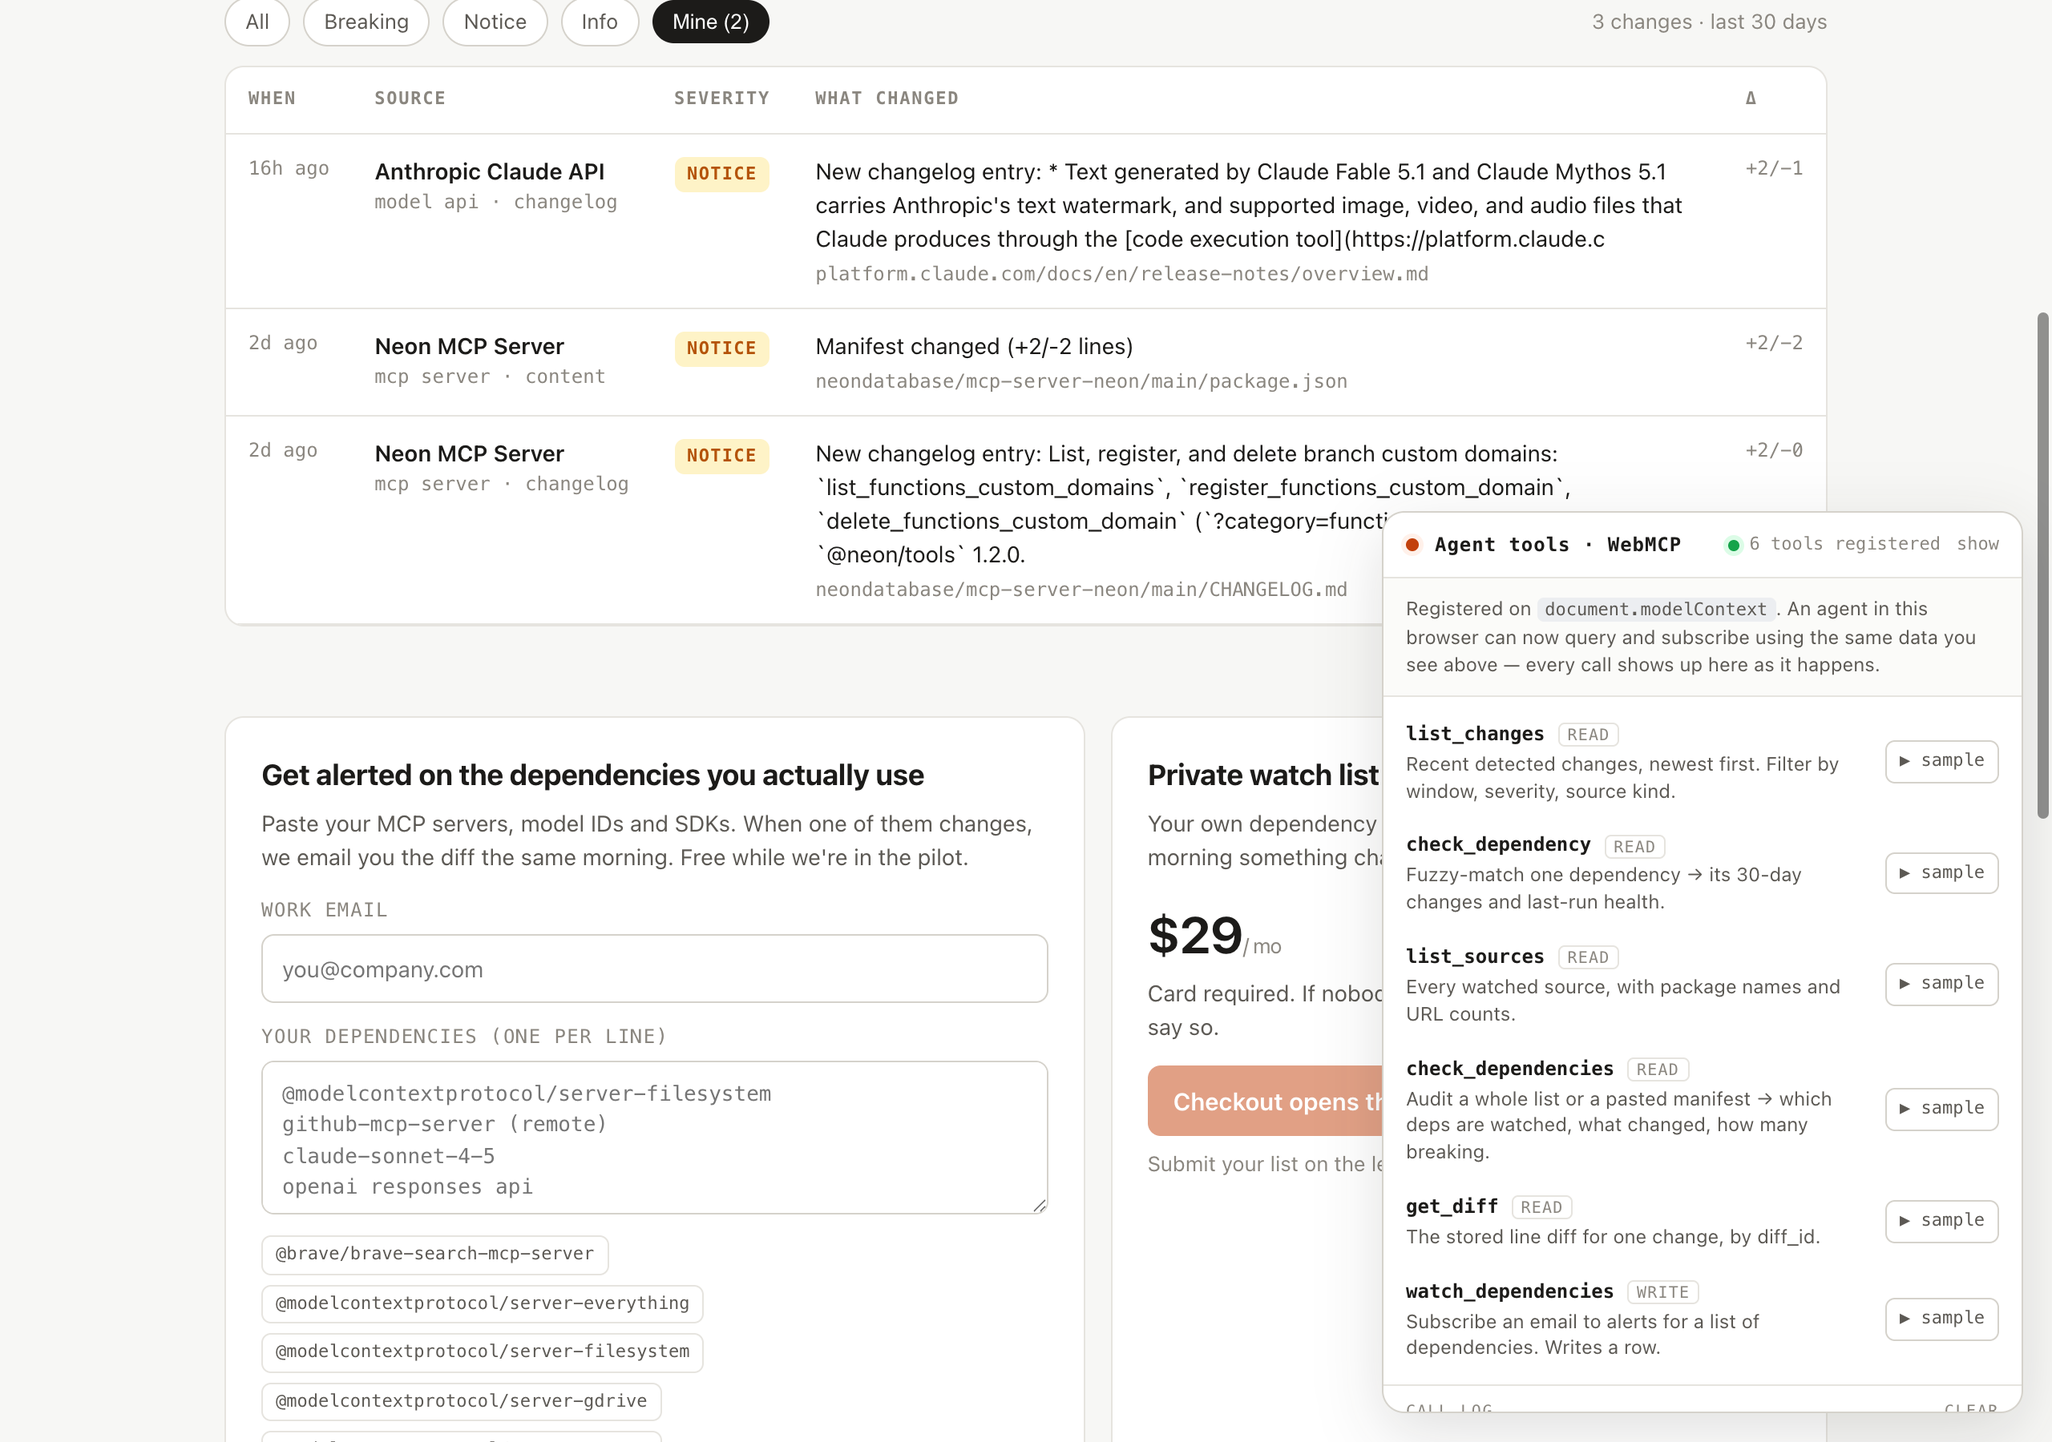
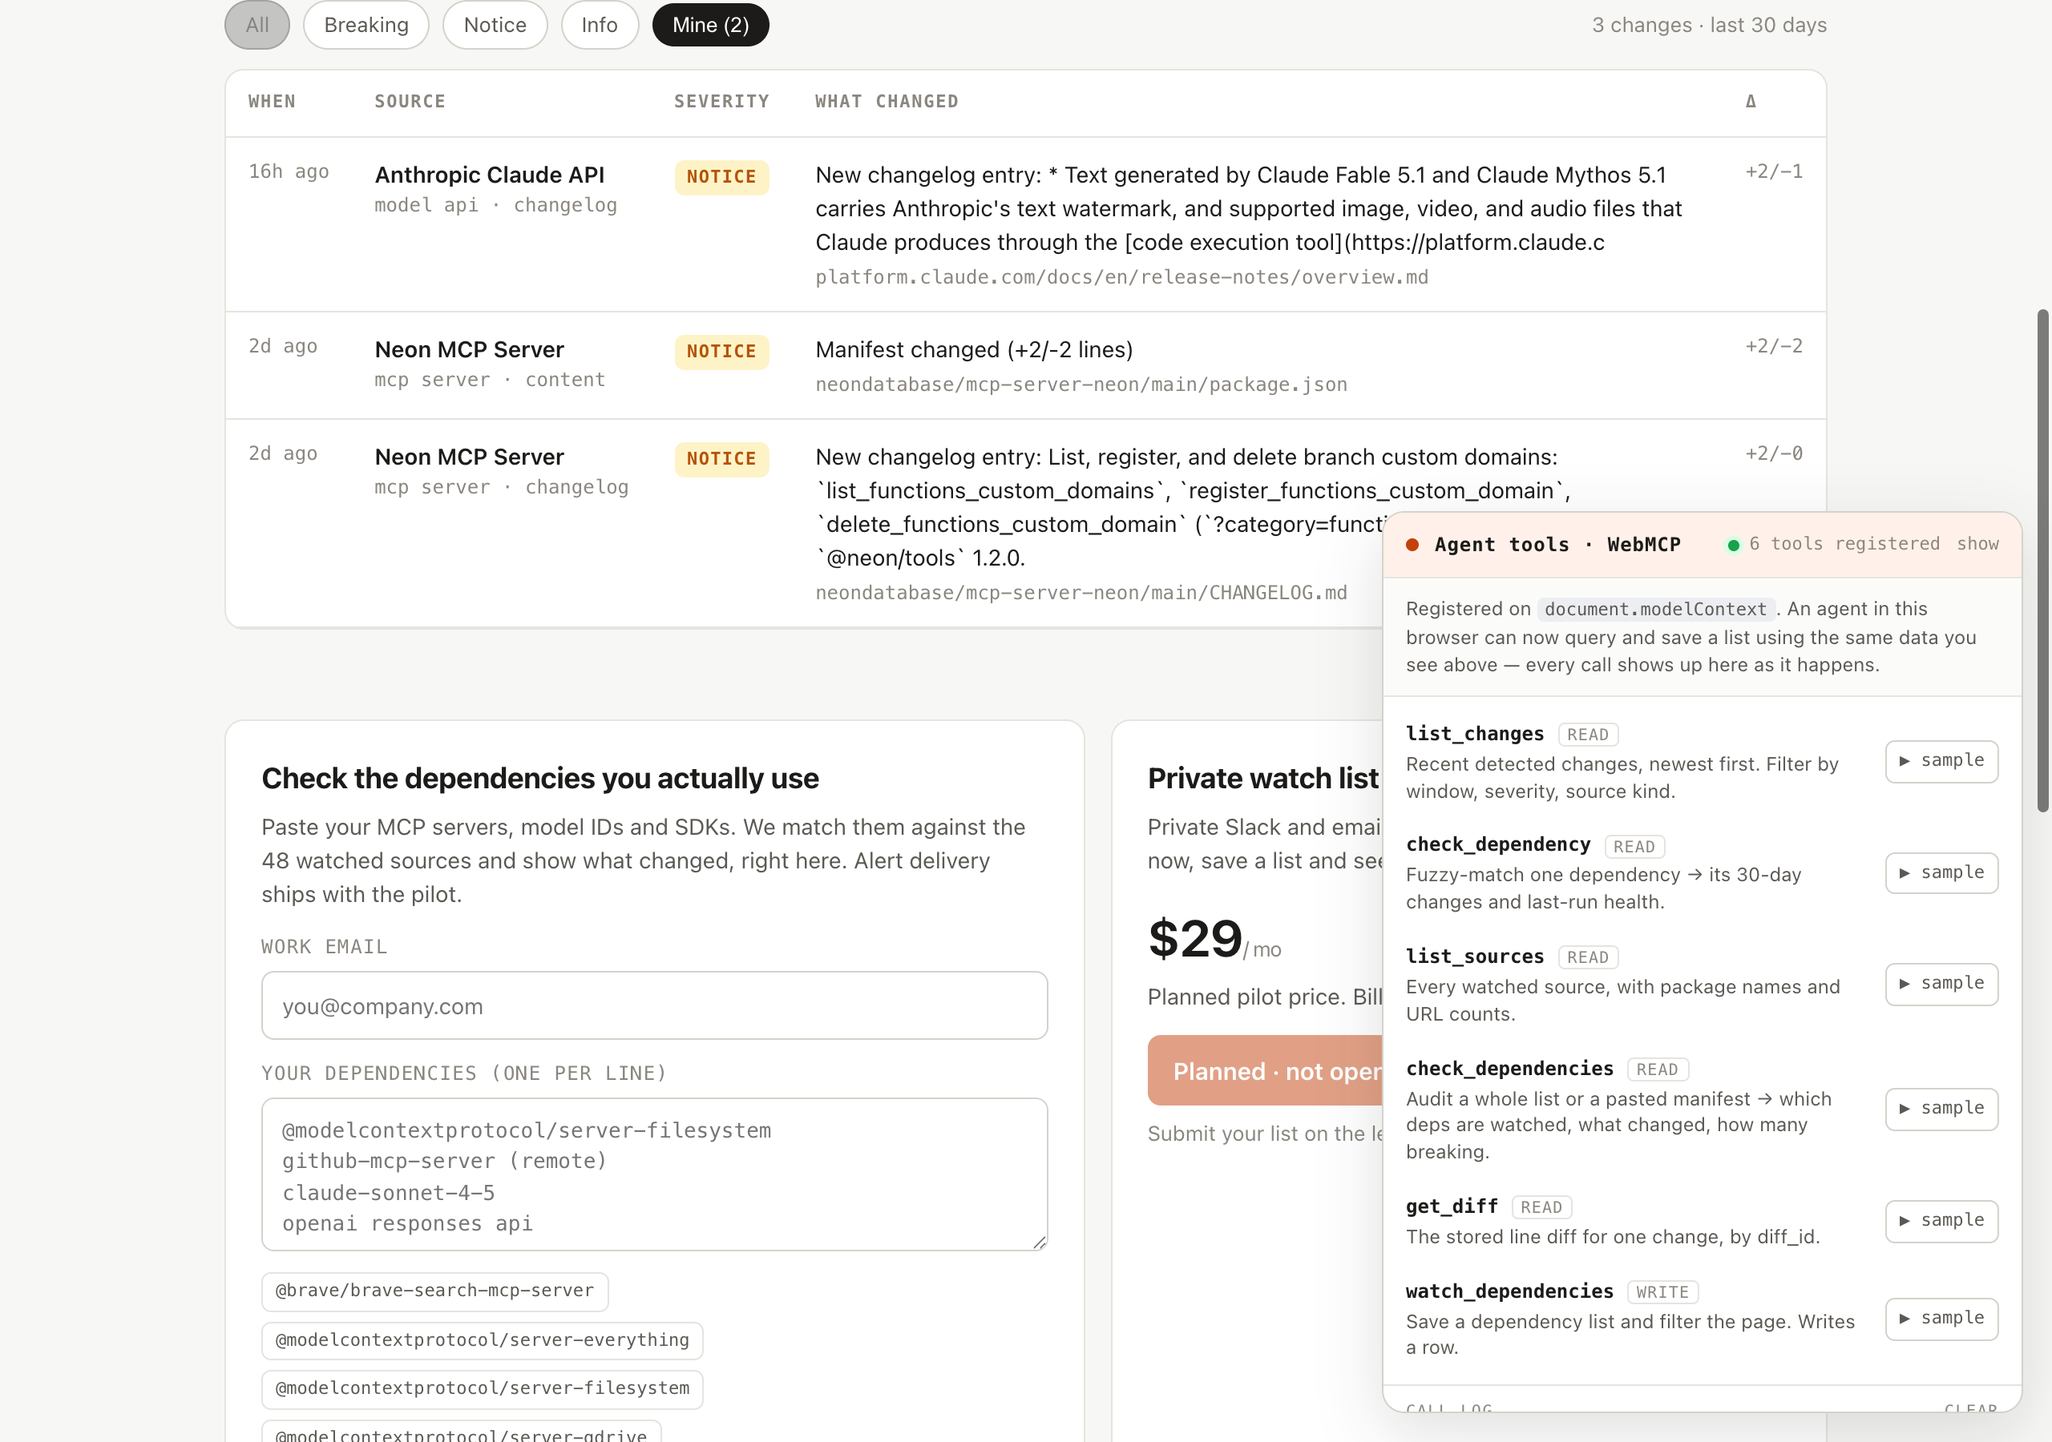
fix: copy promises only what ships; drop dead checkout CTA; remove vercel.json

diff --git a/site/index.html b/site/index.html
@@ -163,8 +163,8 @@
   <section>
     <div class="two">
       <div class="card" id="form-card">
-        <h3>Get alerted on the dependencies you actually use</h3>
-        <p>Paste your MCP servers, model IDs and SDKs. When one of them changes, we email you the diff the same morning. Free while we're in the pilot.</p>
+        <h3>Check the dependencies you actually use</h3>
+        <p>Paste your MCP servers, model IDs and SDKs. We match them against the 48 watched sources and show what changed, right here. Alert delivery ships with the pilot.</p>
         <form id="f">
           <label>Work email</label>
           <input type="email" name="email" required placeholder="you@company.com">
@@ -173,15 +173,15 @@
           <div class="picks" id="picks"></div>
           <label>If you got a Slack message the morning one of these changed, with the diff — what would you do with it?</label>
           <textarea name="workflow" placeholder="e.g. pin the previous version in CI and open a ticket / re-run our eval suite / probably ignore it unless it's a major"></textarea>
-          <div style="margin-top:14px"><button class="btn" type="submit">Watch my dependencies</button></div>
+          <div style="margin-top:14px"><button class="btn" type="submit">Save and check my list</button></div>
           <div id="f-msg"></div>
         </form>
       </div>
       <div class="card">
         <h3>Private watch list</h3>
-        <p>Your own dependency list, alerts to Slack or email the morning something changes, diff included. Cancel any time.</p>
+        <p>Private Slack and email alerts are planned for the pilot. For now, save a list and see its changes on this page.</p>
         <div class="price" id="price">$29 <small>/ month</small></div>
-        <p class="muted">Card required. If nobody pays for this, we'll shut it down and say so.</p>
+        <p class="muted">Planned pilot price. Billing is not open yet.</p>
         <div id="pay"></div>
       </div>
     </div>
@@ -289,9 +289,7 @@ async function load(){
   // stripe
   const c = Object.fromEntries((cfg || []).map(x => [x.key, x.value]));
   if (c.price) document.getElementById("price").innerHTML = esc(c.price).replace(/\/(.*)$/, "<small>/ $1</small>");
-  document.getElementById("pay").innerHTML = c.stripe_link
-    ? `<a class="btn accent" href="${esc(c.stripe_link)}" target="_blank" rel="noopener">Start private watch list</a>`
-    : `<button class="btn accent" disabled>Checkout opens this week</button><div class="muted" style="margin-top:8px">Submit your list on the left and you'll get the link first.</div>`;
+  document.getElementById("pay").innerHTML = `<button class="btn accent" disabled>Planned · not open yet</button><div class="muted" style="margin-top:8px">Submit your list on the left to be told when it opens.</div>`;
   render();
 }
 
@@ -450,14 +448,14 @@ const TOOLS = [
   },
   {
     name: "watch_dependencies",
-    description: "Subscribe an email address to AgentWire alerts for a list of dependencies (MCP servers, packages, model IDs, APIs). The morning one of them changes, the diff is emailed. Only call this after the person has confirmed the email and the list — it writes to the database.",
+    description: "Saves the list and filters the page to those dependencies' changes. Alert delivery ships with the pilot; call check_dependencies any time for the current state. Only call this after the person has confirmed the email and the list — it writes to the database.",
     inputSchema: { type: "object", properties: {
-      email: { type: "string", format: "email", minLength: 5, maxLength: 200, description: "Where to send alerts." },
+      email: { type: "string", format: "email", minLength: 5, maxLength: 200, description: "Email to save with this dependency list." },
       deps: { type: "array", items: { type: "string", minLength: 1 }, minItems: 1, maxItems: 100, description: "Dependencies to watch, one string each." },
       workflow: { type: "string", description: "Optional: what the person would do with an alert (helps us shape the product)." },
     }, required: ["email", "deps"], additionalProperties: false },
     annotations: { readOnlyHint: false, destructiveHint: false, idempotentHint: false },
-    short: "Subscribe an email to alerts for a list of dependencies. Writes a row.",
+    short: "Save a dependency list and filter the page. Writes a row.",
     sample: { email: "you@example.com", deps: ["@modelcontextprotocol/server-filesystem", "claude-sonnet-4-5"], workflow: "pin previous version in CI, open a ticket" },
     async execute({ email, deps, workflow }) {
       deps = (deps || []).map(x => String(x).trim()).filter(Boolean).slice(0, 100);
@@ -467,9 +465,9 @@ const TOOLS = [
       catch (err) { return { ok: false, error: String(err.message || err), fix: "Retry once; if it fails again tell the person the save did not go through." }; }
       const { matched } = applyMyList(deps);
       const f = document.getElementById("f"); f.email.value = email; f.deps.value = deps.join("\n"); if (workflow) f.workflow.value = workflow;
-      document.getElementById("f-msg").innerHTML = `<div class="ok">Saved by your agent: ${deps.length} dependenc${deps.length === 1 ? "y" : "ies"} for ${esc(email)}.</div>`;
+      document.getElementById("f-msg").innerHTML = `<div class="ok">Saved by your agent. ${matched} of ${deps.length} are watched; the page now shows their changes.</div>`;
       document.getElementById("form-card").scrollIntoView({ behavior: "smooth", block: "center" });
-      return { ok: true, email, deps, watched_count: deps.length, watched_matches: matched, message: "Saved. Alerts go to this email the morning one of these changes." };
+      return { ok: true, email, deps, watched_count: deps.length, watched_matches: matched, message: "Saved. The page now shows changes for this list." };
     },
   },
 ];
@@ -600,7 +598,7 @@ async function registerWebMCP() {
     catch (e) { console.warn("registerTool failed", t.name, e); }
   }
   st.className = "st on"; stt.textContent = `${n} tools registered`;
-  note.innerHTML = `Registered on <code>document.modelContext</code>. An agent in this browser can now query and subscribe using the same data you see above — every call shows up here as it happens.`;
+  note.innerHTML = `Registered on <code>document.modelContext</code>. An agent in this browser can now query and save a list using the same data you see above — every call shows up here as it happens.`;
   window.dispatchEvent(new CustomEvent("agentwire:webmcp-ready", { detail: { tools: n } }));
 }
 $("agent-h").addEventListener("click", () => { const a = $("agent"); a.classList.toggle("min"); $("agent-tg").textContent = a.classList.contains("min") ? "show" : "hide"; });

diff --git a/SUBMISSION.md b/SUBMISSION.md
@@ -12,11 +12,11 @@ Works in stock Google Chrome 149+ (origin-trial token is deployed; no flag neede
 
 ### What it is
 
-AgentWire watches the things production agents silently depend on — 48 MCP servers, the OpenAI, Anthropic and Gemini APIs, and the MCP spec, SDK and registry, 119 URLs in total — and diffs them every day: package manifests, tool lists in READMEs, JSON schemas, changelogs, deprecation pages. Each change is classified (version bump / schema / tools / changelog / content; info / notice / breaking) and stored with the line-level diff. Humans get a live change log and can subscribe their own dependency list. With WebMCP, the agent running in your browser gets the same thing, from the same page, without an API key, an MCP server, or scraping.
+AgentWire watches the things production agents silently depend on — 48 MCP servers, the OpenAI, Anthropic and Gemini APIs, and the MCP spec, SDK and registry, 119 URLs in total — and diffs them every day: package manifests, tool lists in READMEs, JSON schemas, changelogs, deprecation pages. Each change is classified (version bump / schema / tools / changelog / content; info / notice / breaking) and stored with the line-level diff. Humans get a live change log and can save their own dependency list; the page immediately filters to its matches. Alert delivery ships with the pilot. With WebMCP, the agent running in your browser gets the same thing, from the same page, without an API key, an MCP server, or scraping.
 
 ### Why this use case fits WebMCP
 
-The people who need this data are already running agents, and the question they ask is naturally conversational and contextual: *"did anything I depend on change since Friday?"*, *"is the Neon MCP server safe to bump?"*, *"show me the diff, then subscribe me."* That is a tool-calling conversation, not a form-filling one. WebMCP lets the page itself be the tool surface: the four functions are registered on `document.modelContext` with JSON Schemas, they run the exact PostgREST queries the human UI runs, and the browser mediates the call. No separate MCP server to host, no credentials to hand out, no DOM scraping, and the page keeps working as a normal website for everyone without an agent.
+The people who need this data are already running agents, and the question they ask is naturally conversational and contextual: *"did anything I depend on change since Friday?"*, *"is the Neon MCP server safe to bump?"*, *"show me the diff, then save this list."* That is a tool-calling conversation, not a form-filling one. WebMCP lets the page itself be the tool surface: the four functions are registered on `document.modelContext` with JSON Schemas, they run the exact PostgREST queries the human UI runs, and the browser mediates the call. No separate MCP server to host, no credentials to hand out, no DOM scraping, and the page keeps working as a normal website for everyone without an agent.
 
 The read/write split also maps cleanly onto WebMCP's annotations: three tools are `readOnlyHint: true` and can be called freely; `watch_dependencies` is a write, is annotated as such, and its description tells the agent to confirm the email and list with the person before calling it.
 
@@ -24,14 +24,14 @@ The read/write split also maps cleanly onto WebMCP's annotations: three tools ar
 
 - **Fuzzy dependency lookup instead of scanning a table.** `check_dependency("claude-sonnet-4-5")` resolves to the Anthropic API source; `"github mcp"` resolves to the official GitHub MCP server. The agent gets the last 30 days of changes *and* whether the most recent daily run fetched that source's URLs successfully, so "no changes" is distinguishable from "we couldn't check".
 - **Diff on demand.** `list_changes` returns summaries; `get_diff` returns the stored `-`/`+` lines only when the agent decides a change matters. The agent can read the diff and tell you whether it affects your code path.
-- **Subscribe in one sentence.** "Watch these for me" becomes a `watch_dependencies` call with the deps the agent already knows you use.
-- **The page reacts to the agent.** Every tool mirrors its work into the UI: the severity chip flips, the matched source lights up, the diff row expands and scrolls into view, the form fills in. A small "Agent tools" panel lists the registered tools and logs every call live — tool, arguments, result, latency — so the person always sees what the agent did.
+- **Save and filter in one sentence.** "Save these for me" becomes a `watch_dependencies` call with the deps the agent already knows you use. The list is stored and the page immediately filters to matching sources; alert delivery is not live yet and ships with the pilot.
+- **The page reacts to the agent.** Tool calls mirror the relevant work into the UI: the severity chip flips, the matched source lights up, the diff row expands and scrolls into view, and a saved list fills the form and filters the change log. A small "Agent tools" panel lists the registered tools and logs every call live — tool, arguments, result, latency — so the person always sees what the agent did.
 
 ### What humans and agents can do together that wasn't possible before
 
 Before: a person opens the site, scans a table, copies package names into a form. Or an engineer builds a separate MCP server and API-key flow so an agent can query the data outside the browser, where the human can't see it.
 
-Now: person and agent share one page and one state. The person asks their browser agent "what changed in the MCP servers we use this week, and is any of it breaking?"; the agent calls `list_changes(severity="breaking")` and `check_dependency` for each server in the project's config, reads the diffs with `get_diff`, and the person watches each call land in the panel while the change log filters itself. The person decides, the agent subscribes them with `watch_dependencies`, and the form on screen shows exactly what was saved. The panel's "▶ sample" buttons let a person run the same functions by hand, so both sides use one code path and one log.
+Now: person and agent share one page and one state. The person asks their browser agent "what changed in the MCP servers we use this week, and is any of it breaking?"; the agent calls `list_changes(severity="breaking")` and `check_dependency` for each server in the project's config, reads the diffs with `get_diff`, and the person watches each call land in the panel while the change log filters itself. The person decides, the agent saves their list with `watch_dependencies`, and the form shows exactly what was stored while the change log narrows to matching sources. The panel's "▶ sample" buttons let a person run the same functions by hand, so both sides use one code path and one log.
 
 ### Implementation
 
@@ -49,7 +49,7 @@ The diff engine (`supabase/functions/run/index.ts`), schema (`supabase/migration
 
 - **Severity is heuristic.** "Breaking" is inferred from major version bumps, removed tools or schema fields, and changelog wording; it can over- or under-call. Every change links to the source line so a person can check.
 - **Fuzzy matching returns a confidence, not a guarantee.** `check_dependency` picks the best of 48 sources and lists alternatives; a name that matches nothing returns the watched list instead of a guess.
-- **Email alerts are a subscription, not yet a delivery pipeline.** `watch_dependencies` stores the list (row-level security allows only that insert); sending is manual today.
+- **Alert delivery is not live yet.** `watch_dependencies` stores the list (row-level security allows only that insert) and filters the page to matching sources. Email and Slack delivery ship with the pilot.
 - **Coverage is the 48 sources / 119 URLs in `data/sources.json`.** Private or unpublished dependencies are not watched.
 - **WebMCP is pre-release.** The tools register in Chrome 149+ with `chrome://flags/#enable-webmcp-testing` (the production origin also carries a WebMCP origin-trial token, so no flag is needed there) and in ChatGPT's browser; other browsers see the page with the panel explaining what an agent would get.
 - **Three daily runs exist so far** (Sept 1 baseline, Sept 2, Sept 3), so the history judges can query is days, not months.

diff --git a/docs/SUBMISSION.md b/docs/SUBMISSION.md
@@ -6,7 +6,7 @@ Form: https://webmcp.devpost.com → "Manage submission". Deadline shown on the 
 |---|---|
 | **Project name** | AgentWire |
 | **Tagline** (≤ 60 chars) | Dependency watch for AI agents, with the agent on the page |
-| **Short description** | AgentWire diffs 119 URLs across 48 MCP servers, model APIs and SDKs every day. Four WebMCP tools let the agent in your browser ask "did anything I depend on change, and is it breaking?", read the diff, and subscribe you, on the same page you see, with every call logged live. |
+| **Short description** | AgentWire diffs 119 URLs across 48 MCP servers, model APIs and SDKs every day. Four WebMCP tools let the agent in your browser ask "did anything I depend on change, and is it breaking?", read the diff, and save a dependency list that immediately filters the page, with every call logged live. Alert delivery ships with the pilot. |
 | **Long description / About the project** | Paste `SUBMISSION.md` §1 (sections *What it is* through *Limitations*). It already covers the four required topics: WebMCP fit, UX improvement, human+agent collaboration, implementation. |
 | **Built with** (tags) | webmcp, javascript, html, supabase, postgresql, postgrest, deno, firebase-hosting, gemini, chrome-devtools-protocol, pg_cron |
 | **Live URL** | https://agentwire.web.app |
